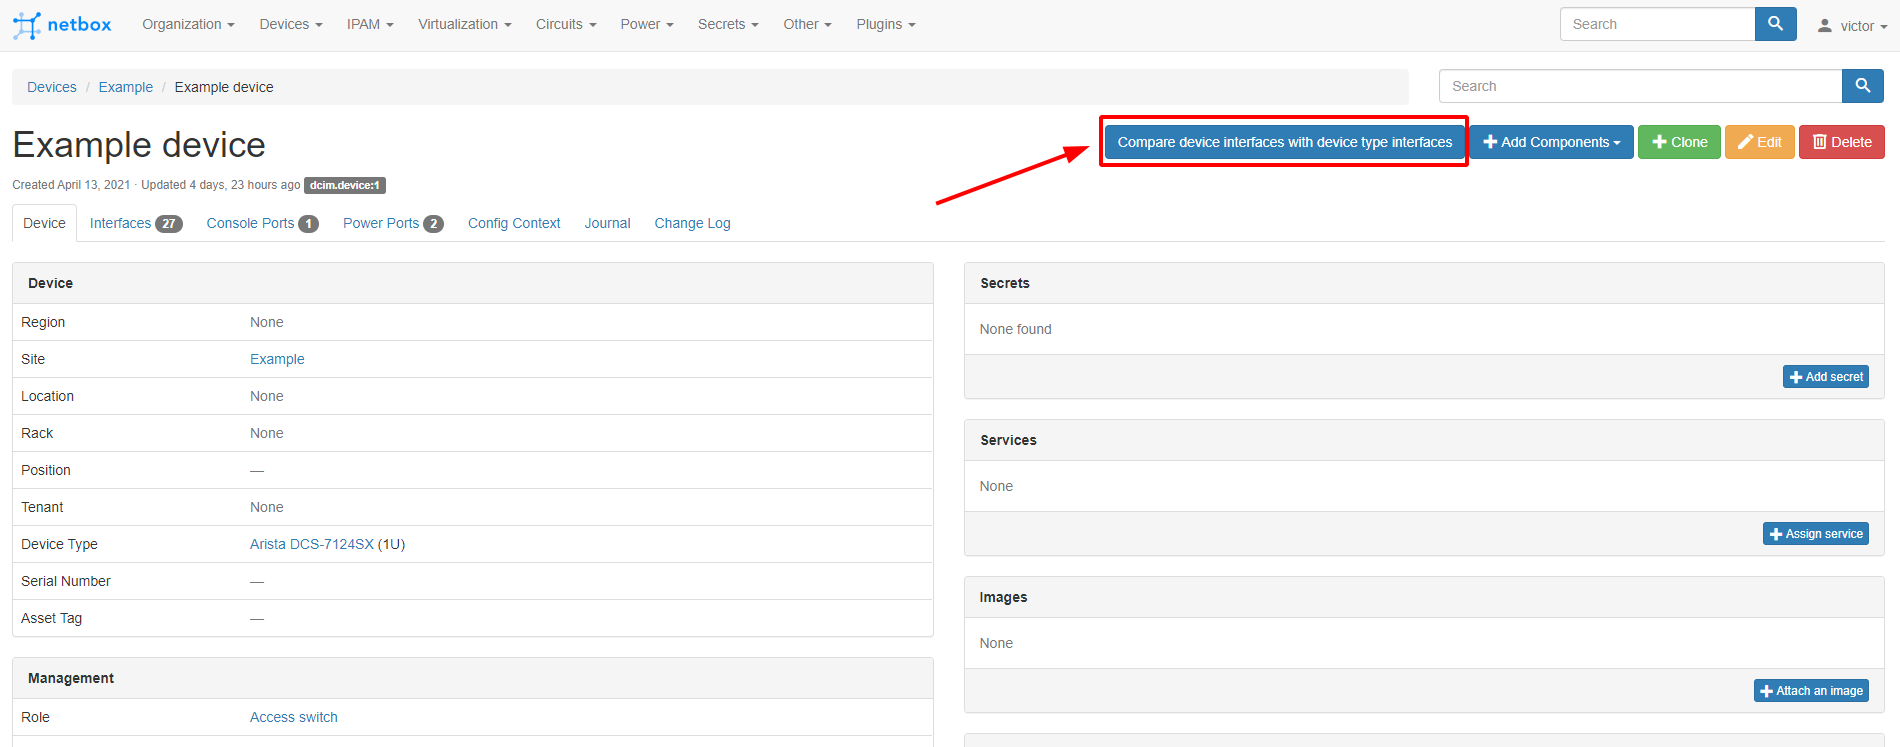
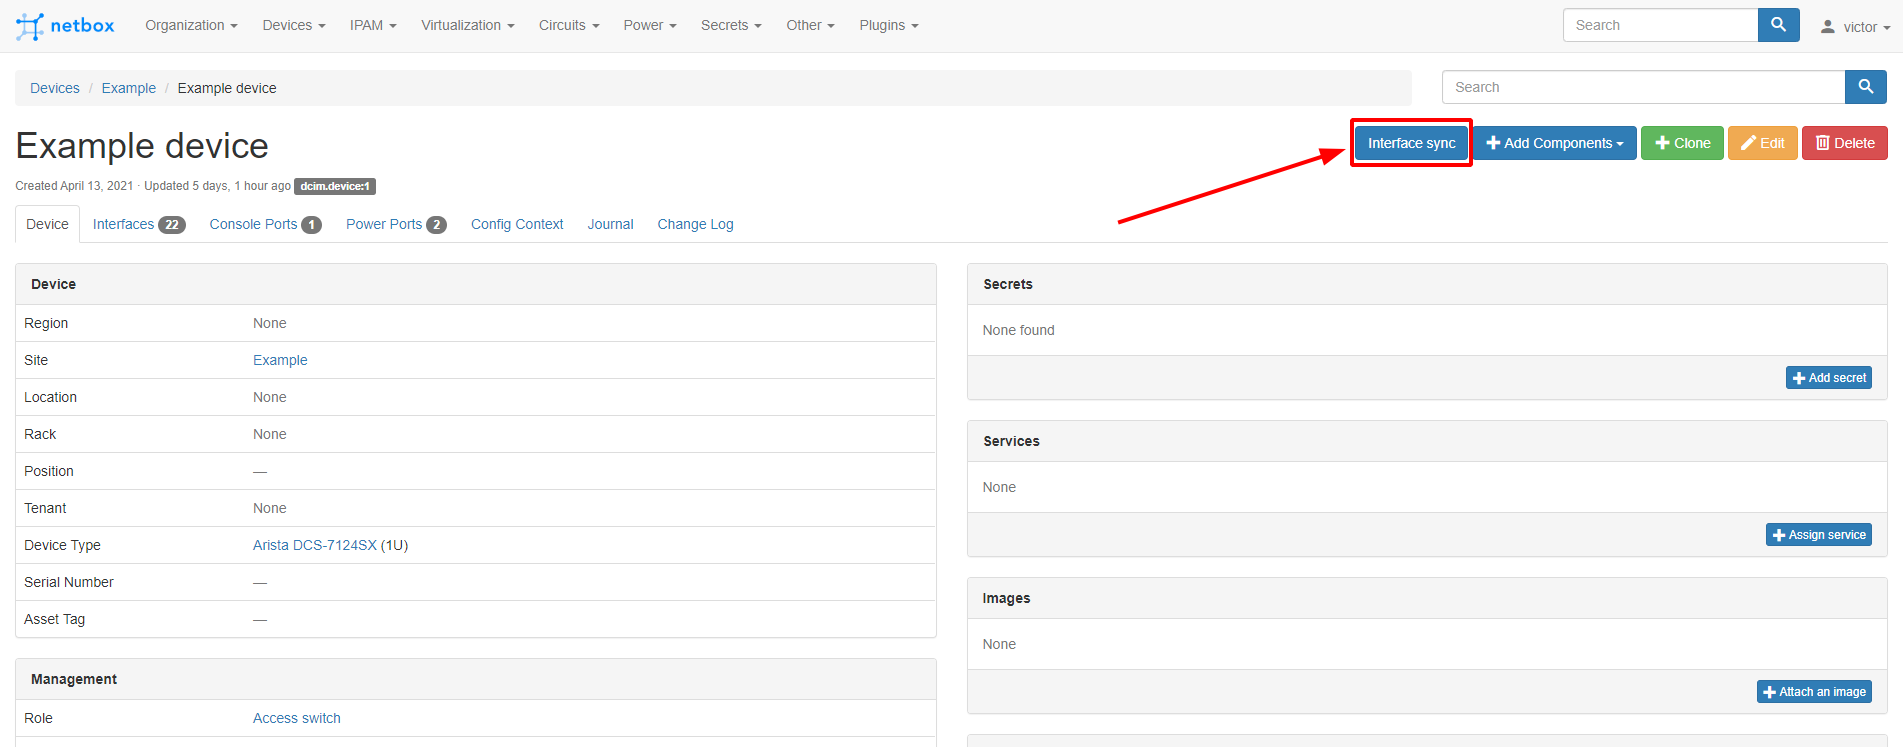
Renamed plugin button on the device view

diff --git a/netbox_interface_sync/templates/netbox_interface_sync/compare_interfaces_button.html b/netbox_interface_sync/templates/netbox_interface_sync/compare_interfaces_button.html
@@ -1,3 +1,3 @@
 <a href="{% url 'plugins:netbox_interface_sync:interface_comparison' device_id=device.id %}" class="btn btn-primary">
-    Compare device interfaces with device type interfaces
+    Interface sync
 </a>
